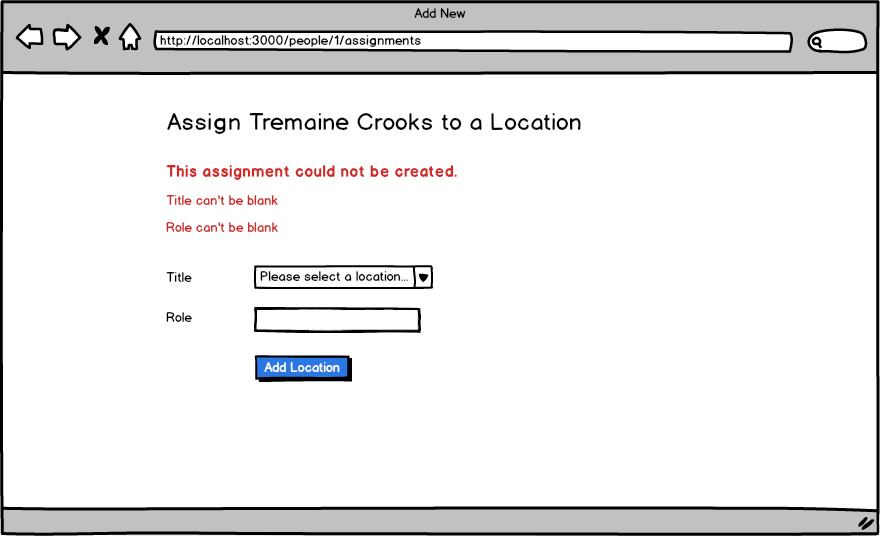
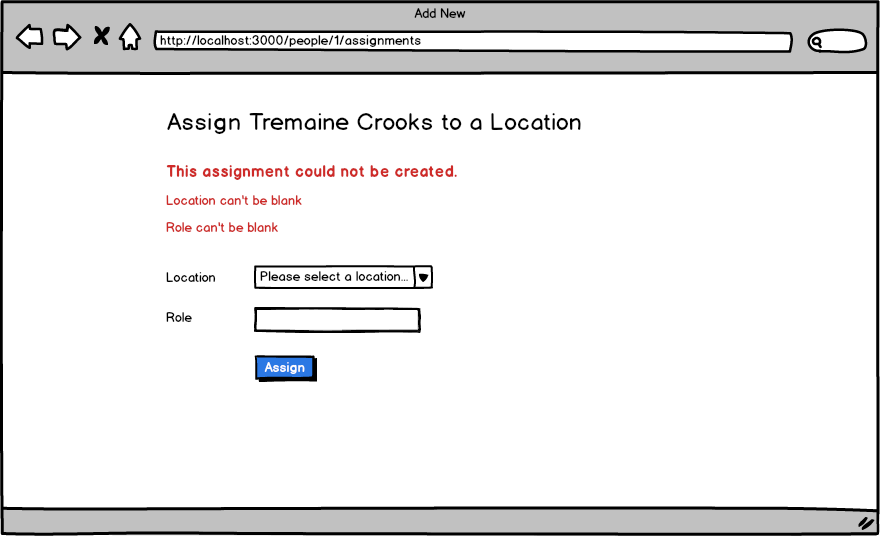
updated stories and mockups

Changed region(s): [[0.3068, 0.6567, 0.3989, 0.7164], [0.1841, 0.3582, 0.3375, 0.3881], [0.1841, 0.5075, 0.2455, 0.5373]]

diff --git a/README.md b/README.md
@@ -14,19 +14,10 @@ Note: email/password combinations for existing users populated by `rake db:seed`
 
 ## Stories
 
-**Users can add people**
+**Users must enter a title/last_name or first_name/last_name**
 
 ```
-Go to index page
-Click "New Person"
-Fill out form and click button
-See the person appear on the index page
-```
-
-**Must enter a title/last_name or first_name/last_name**
-
-```
-While adding a person
+While adding or editing a person
 Users must enter either a title/last_name or a first_name/last_name
 Otherwise they get a validation message and the person isn't saved
 ```
@@ -45,6 +36,14 @@ Go to person show page
 Click on "+ Add Location"
 Fill out form
 View assignment on person show page
+Assignments must have both a location and a role
+```
+
+**People cannot be assigned to the same location with the same role**
+
+```
+A person can be assigned to "Northeast" more than once, as long as the role is unique
+But a person cannot be assigned as "Sales Manager" to "Northeast" twice
 ```
 
 **Users can edit assignments**
@@ -63,6 +62,13 @@ Go to person show page
 Click on the "delete" link by an assignment
 Javascript prompt that says "Are you sure?" should appear
 If user clicks "OK" then it should be deleted
+```
+
+**Users see assignment count on the home page**
+
+```
+Go to the home page
+You should see the total number of assignments next to each person
 ```
 
 ## Wireframes
